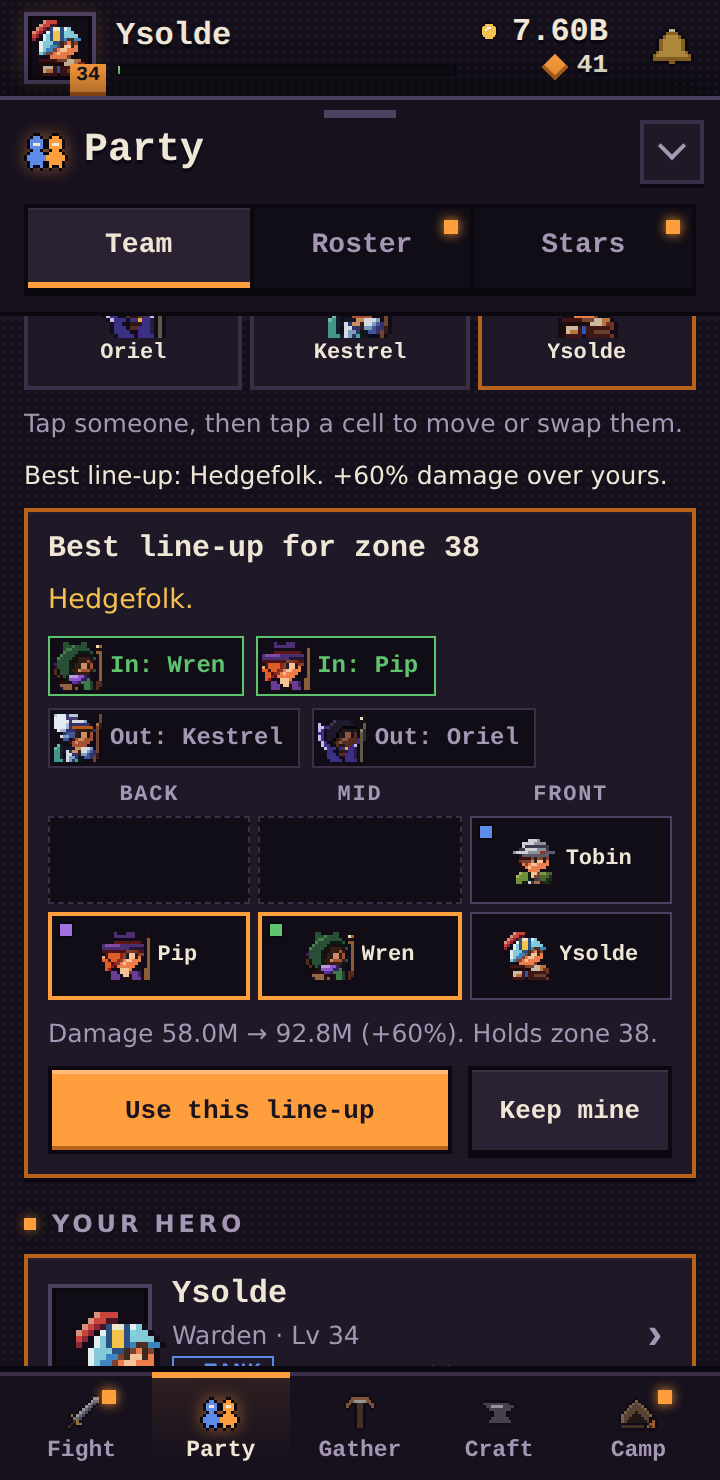
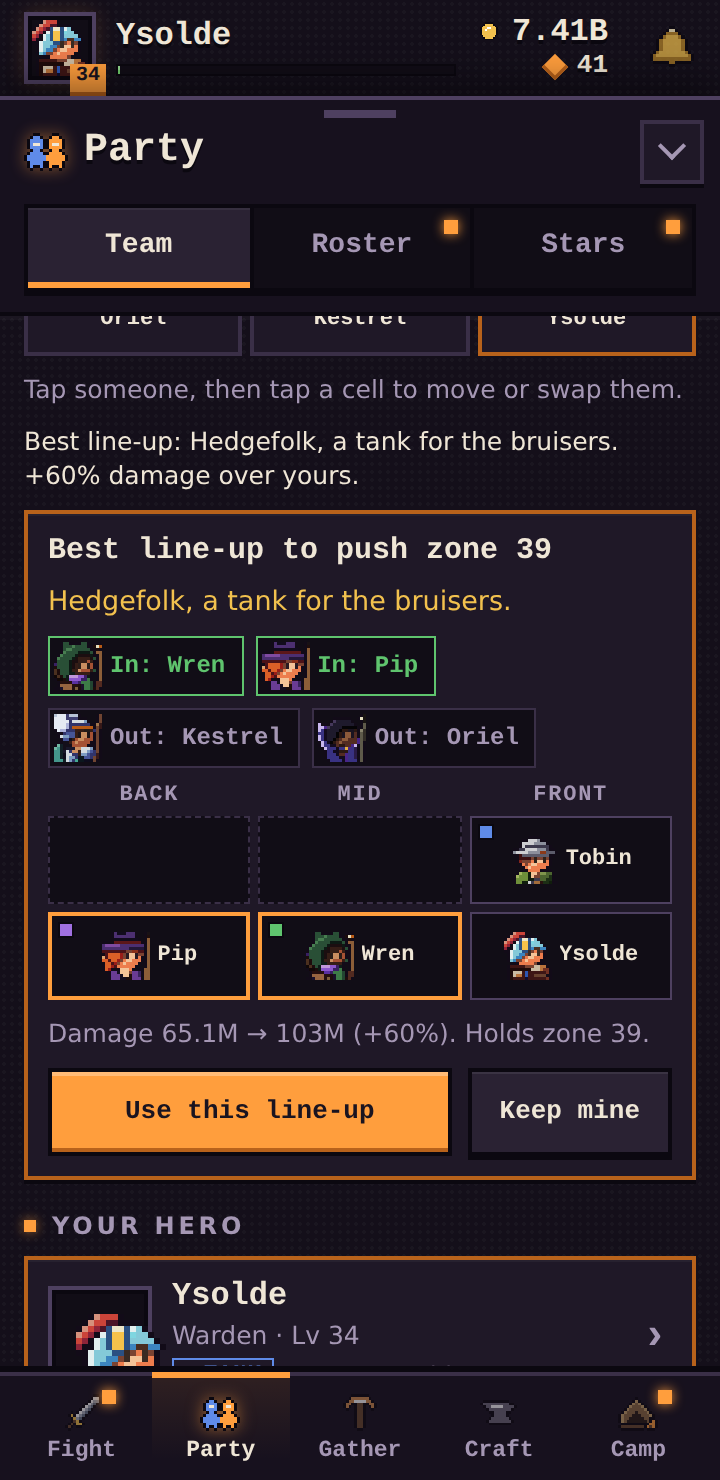
AF: plan past the best zone, count held zones and the boss; plan off the ui pass
- bestLineup push plans for maxZone + 1 and scores by the highest zone a field holds (the
  estimate's scan), so a field that holds no zone no longer outranks one that nearly does.
- A field with no tank in Front scores 35% less when pushing (the zone boss's heavy hit is not in
  the pack estimate); why line says 'a tank for the boss'. opts.boss: false turns it off.
  Without this, --targets lightkeeper runs stalled at zone 41-48.
- 75-party: background re-plans run in their own task (party-form ui p95 64 -> 9 ms on the
  phone profile); the why line names held zones or the damage gain.

Claude-Session: https://claude.ai/code/session_01Cw7jVdUYNDufF4BfA1VN82

diff --git a/src/js/56d-autofield.js b/src/js/56d-autofield.js
@@ -14,11 +14,12 @@
 //
 // Exposed names:
 //   bestLineup(opts) -> { field, cells, score, why, parts } | null (no roster yet)
-//     opts.zone    zone to plan for (default: your best zone for 'push', the current zone for 'farm')
+//     opts.zone    zone to plan for (default: the next zone past your best for 'push', the current zone for 'farm')
 //     opts.goal    'push' (default: hold the zone, most damage) | 'farm' (most gold per second)
 //     opts.filter  fn(id) -> bool | [ids] | { circle } | { role } (e.g. circle-only for the Oaths)
 //     opts.key     cache key for a function filter (without it a function filter is not cached)
 //     opts.by      'now' (default: today's levels) | 'potential' (levels once caught up; autoField)
+//     opts.boss    push only: count the zone boss (default true: a Front tank for its heavy hit)
 //     parts: { zone, goal, dps, holds, margin, goldPerSec, synergies: [{ id, name, strength }],
 //              reasons: [text], foe, current: { score, dps, holds } | null, gain, same, cand }
 //   lineupScore(field, opts) -> { score, dps, holds, margin, goldPerSec, cells, synergies } (checks, UI)
@@ -38,9 +39,11 @@ let AF_TUNE, bestLineup, lineupScore, applyLineup;
     synBonus: 0.03,       // tie-break per active synergy, x its strength (Common Cause, Bond)
     synMax: 0.08,         // at most +8%: a synergy wins when damage is close, never against a big gap
     behBonus: 0.03,       // foe behaviours the estimate does not model (a Front tank vs divers, a stun vs Wraith healers)
-    failBase: 0.2, failMargin: 0.3,   // a field that does not hold keeps 20-50% of its score (by sustain)
+    bossTank: 0.35,       // push: a field with no tank in Front scores 35% less (the zone boss's heavy hit; the
+                          //   estimate models packs only; without this, lightkeeper runs stalled at a boss)
+    zoneX: 1.55,          // push: a field's score drops by this for each zone short of the target it holds
     farmFail: 0.1,        // farming: a field that does not hold is worth a tenth
-    needGap: 0.05,        // when nothing holds, a role is a reason when the best field without it has 5% less sustain
+    needGap: 0.05,        // (unused since held zones decide the reasons)
     hearthTop: 4,         // Hearth cells are tried for this many of the best fields
     deep: 6,              // fields per make-up (with or without a tank, a support) that get the full estimate
     lvStep: 5             // cache: levels in steps of 5
@@ -98,15 +101,19 @@ let AF_TUNE, bestLineup, lineupScore, applyLineup;
   }
 
   // ---------------- one field ----------------
+  let bossNow = false;   // set per call: push plans also face the zone boss (see T.bossTank)
   // Scores a field with cells: the hold estimate at zone z, today's synergies, the zone's foes.
   function measure(field, cells, z, goal) {
     const p = P(), f0 = p.field, c0 = p.cells;
     p.field = field.slice(); p.cells = cells;
     try {
-      let dps = 0, holds = true, margin = 99, gps = 0;
+      // The estimate scans z down to z - 10 and reports the highest zone this field holds.
+      let dps = 0, holds = true, margin = 99, gps = 0, held = z;
       if (typeof partyHoldEstimate === 'function') {
-        const e = partyHoldEstimate(z, { one: true });
-        dps = e.dps; holds = !!e.holds; margin = e.margin; gps = e.goldPerSec;
+        const e = partyHoldEstimate(z);
+        dps = e.dps; margin = e.margin; gps = e.goldPerSec;
+        held = e.holds && e.zone >= z - 10 ? e.zone : z - 11;
+        holds = held >= z;
       } else {
         dps = heroDps() + field.reduce((a, k) => a + charDps(k), 0); gps = dps;
       }
@@ -116,11 +123,14 @@ let AF_TUNE, bestLineup, lineupScore, applyLineup;
       let behF = 1;
       if (fk === 'bat' && field.some(k => R(k).role === 'tank' && cells[k] && cells[k].col === 2)) behF += T.behBonus;
       if (fk === 'wraith' && field.some(k => STUNS[k])) behF += T.behBonus;
-      const m = Math.max(0, Math.min(1, margin));
+      const frontTank = (roleOf('hero') === 'tank' && heroColOf() === 2) || field.some(k => R(k).role === 'tank' && cells[k] && cells[k].col === 2);
+      if (bossNow && !frontTank) behF *= 1 - T.bossTank;
+      // push: damage, x zoneX for each zone short of z the field holds (a zone is about 1.55x the foe
+      // HP), so a field that holds more zones wins unless it is far weaker. farm: gold per second there.
       const base = goal === 'farm' ? gps : dps;
-      const holdF = holds ? 1 : goal === 'farm' ? T.farmFail : T.failBase + T.failMargin * m;
+      const holdF = goal === 'farm' ? (holds ? 1 : T.farmFail) : Math.pow(T.zoneX, held - z);
       const score = Number.isFinite(base) ? base * holdF * synF * behF : 0;
-      return { field: field.slice(), cells, score, dps, holds, margin, goldPerSec: gps, synergies: syn };
+      return { field: field.slice(), cells, score, dps, holds, held, margin, goldPerSec: gps, synergies: syn };
     } finally { p.field = f0; p.cells = c0; }
   }
 
@@ -188,11 +198,13 @@ let AF_TUNE, bestLineup, lineupScore, applyLineup;
       const s = lacking(test); if (s == null) return;
       const w = evals.find(e => e.score === s && !e.field.some(test));
       // a reason only when the hold estimate says so: without it the zone does not hold (or holds much worse)
-      if (w && ((!w.holds && best.holds) || (!best.holds && w.margin < best.margin * (1 - T.needGap)))) out.push(text);
+      if (w && (w.held < best.held || (!w.holds && best.holds))) out.push(text);
     };
     need(k => R(k).role === 'tank', 'tank');
     need(k => R(k).role === 'support', 'healer');
     if (out.length) out.splice(0, out.length, `a ${out.join(' and a ')} for the ${foes}`);
+    // a tank the packs do not need, fielded for the boss's heavy hit
+    else if (bossNow && best.field.some(k => R(k).role === 'tank') && roleOf('hero') !== 'tank' && lacking(k => R(k).role === 'tank') != null) out.push('a tank for the boss');
     if (fk === 'bones' || fk === 'golem') need(k => R(k).role === 'caster', 'a caster for the armour');
     if (fk === 'wraith') need(k => !!STUNS[k], 'a stun for the healers');
     return out.slice(0, 2);
@@ -210,15 +222,16 @@ let AF_TUNE, bestLineup, lineupScore, applyLineup;
   let cache = new Map(), cacheFor = null;
   function sigOf(o, z, goal, by) {
     const step = Math.max(1, T.lvStep);
-    let s = [heroCls(), z, goal, by, o.key || (typeof o.filter === 'function' ? '' : JSON.stringify(o.filter || null)), S.L, Math.floor((S.blade || 0) / 10)].join('|') + '|';
+    let s = [heroCls(), z, goal, by, bossNow, o.key || (typeof o.filter === 'function' ? '' : JSON.stringify(o.filter || null)), S.L, Math.floor((S.blade || 0) / 10)].join('|') + '|';
     for (const k of rosterList()) { const r = charRec(k); s += k + Math.floor(r.lv / step) + '.' + r.rank + '.' + r.wpn + '.' + r.trk + (onExped(k) ? 'x' : '') + ','; }
     return s;
   }
   bestLineup = opts => {
     if (!(typeof rosterLive === 'function' && rosterLive())) return null;
     const o = opts || {}, goal = o.goal === 'farm' ? 'farm' : 'push', by = o.by === 'potential' ? 'potential' : 'now';
-    const z = Math.max(1, Math.floor(o.zone || (goal === 'farm' ? S.zone : S.maxZone) || 1));
+    const z = Math.max(1, Math.floor(o.zone || (goal === 'farm' ? S.zone : (S.maxZone || 0) + 1) || 1));
     const cacheable = typeof o.filter !== 'function' || !!o.key;
+    bossNow = goal === 'push' && o.boss !== false;
     if (cacheFor !== S) { cache = new Map(); cacheFor = S; }
     const sig = cacheable ? sigOf(o, z, goal, by) : null;
     let res = sig ? cache.get(sig) : null;
@@ -243,18 +256,19 @@ let AF_TUNE, bestLineup, lineupScore, applyLineup;
     const f0 = (P().field || []).filter(k => isRecruited(k)).slice(0, 3), c0 = P().cells || {};
     const same = sameSet(f0, b.field) && sameCells(c0, b.cells, ['hero'].concat(b.field));
     let current = null;
-    if (same) current = { score: b.score, dps: b.dps, holds: b.holds };
-    else try { const m = withLevels(by, f0, () => measure(f0, c0, z, goal)); current = { score: m.score, dps: m.dps, holds: m.holds }; } catch (e) {}
+    if (same) current = { score: b.score, dps: b.dps, holds: b.holds, held: b.held };
+    else try { const m = withLevels(by, f0, () => measure(f0, c0, z, goal)); current = { score: m.score, dps: m.dps, holds: m.holds, held: m.held }; } catch (e) {}
     return {
       field: b.field.slice(), cells: JSON.parse(JSON.stringify(b.cells)), score: b.score, why: whyLine(b, res.rs, goal),
-      parts: { zone: z, goal, by, dps: b.dps, holds: b.holds, margin: b.margin, goldPerSec: b.goldPerSec, synergies: b.synergies.slice(), reasons: res.rs.slice(),
+      parts: { zone: z, goal, by, dps: b.dps, holds: b.holds, held: b.held, margin: b.margin, goldPerSec: b.goldPerSec, synergies: b.synergies.slice(), reasons: res.rs.slice(),
         foe: foeKey(z), current, gain: current && current.score > 0 ? b.score / current.score : null, same, cand: res.cand }
     };
   };
   lineupScore = (field, opts) => {
     const o = opts || {}, goal = o.goal === 'farm' ? 'farm' : 'push';
-    const z = Math.max(1, Math.floor(o.zone || (goal === 'farm' ? S.zone : S.maxZone) || 1));
+    const z = Math.max(1, Math.floor(o.zone || (goal === 'farm' ? S.zone : (S.maxZone || 0) + 1) || 1));
     const f = (field || []).filter(k => isRecruited(k)).slice(0, 3);
+    bossNow = goal === 'push' && o.boss !== false;
     return withLevels(o.by, f, () => measure(f, o.cells || placeAll(f), z, goal));
   };
   applyLineup = res => {

diff --git a/src/js/75-party.js b/src/js/75-party.js
@@ -107,11 +107,20 @@
   // hold) and applies it only on "Use this line-up". Planned at most every few seconds, cached by 56d.
   let luRes = null, luT = -1e9, luOpen = false, luSig = '', luField = null, luCells = null;
   const luOk = () => typeof bestLineup === 'function' && live() && rosterList().length >= 1;
-  const luPlan = force => {
-    const t = performance.now();
-    if (!force && luRes && t - luT < 5000) return luRes;
-    luT = t;
+  // Background refreshes run in their own task (never inside a ui() pass, so opening the tab stays
+  // smooth); a tap on the button or a manual move plans at once.
+  let luQueued = false;
+  const luRun = () => {
+    luT = performance.now();
     try { luRes = bestLineup({ goal: 'push' }); } catch (e) { luRes = null; console.error('[lanternfall] bestLineup', e); }
+    return luRes;
+  };
+  const luPlan = force => {
+    if (force) return luRun();
+    if ((!luRes || performance.now() - luT >= 5000) && !luQueued) {
+      luQueued = true;
+      setTimeout(() => { luQueued = false; if (formRefs && formRefs.why.isConnected) { luRun(); luSig = ''; try { updateWhy(); } catch (e) {} } }, 60);
+    }
     return luRes;
   };
   const pctTxt = g => { const p = Math.round((g - 1) * 100); return p > 0 ? `+${p}%` : `${p}%`; };
@@ -119,13 +128,14 @@
     const r = formRefs; if (!r) return;
     putHidden(r.best, !luOk());
     if (!luOk()) { r.why.hidden = true; r.prev.hidden = true; return; }
-    const moved = luField !== P().field || luCells !== P().cells;   // a manual move: plan again now
+    const moved = !!luRes && (luField !== P().field || luCells !== P().cells);   // a manual move: plan again now (the pick is cached, so this is cheap)
     luField = P().field; luCells = P().cells;
     const b = luPlan(moved);
     if (!b) { r.why.hidden = true; return; }
     // The gain in the words of the preview: damage when yours holds too, else the hold itself.
     const g = b.parts.gain, cur = b.parts.current;
-    const more = !g || g <= 1.005 || !cur ? '' : cur.holds || !b.parts.holds ? ` ${pctTxt(b.parts.dps / Math.max(1e-9, cur.dps))} damage over yours.` : ` Yours cannot hold zone ${b.parts.zone}.`;
+    const dz = cur ? (b.parts.held || 0) - (cur.held || 0) : 0;
+    const more = !g || g <= 1.005 || !cur ? '' : dz >= 10 ? ' Yours cannot hold these zones.' : dz > 0 ? ` It holds ${dz} more zone${dz === 1 ? '' : 's'} than yours.` : b.parts.dps > cur.dps * 1.005 ? ` ${pctTxt(b.parts.dps / Math.max(1e-9, cur.dps))} damage over yours.` : '';
     const t = b.parts.same ? `Best line-up: ${b.why}. You have it.` : `Best line-up: ${b.why}.` + more;
     setT(r.why, t); r.why.hidden = false;
     putToggle(r.best, 'go', !b.parts.same && !!g && g > 1.02);
@@ -145,7 +155,7 @@
     const now = field(), sig = JSON.stringify([b.field, b.cells, b.why, now, cellsNow(), Math.round((b.parts.gain || 0) * 100)]);
     if (sig === luSig) return; luSig = sig;
     box.textContent = ''; box.hidden = false;
-    box.append(el('b', 'lu-t', `Best line-up for zone ${b.parts.zone}`), el('p', 'lu-line', b.why + '.'));
+    box.append(el('b', 'lu-t', `Best line-up to push zone ${b.parts.zone}`), el('p', 'lu-line', b.why + '.'));
     const ins = b.field.filter(k => !now.includes(k)), outs = now.filter(k => !b.field.includes(k));
     const ch = el('div', 'lu-ch');
     if (b.parts.same) ch.append(el('span', 'lu-same', 'Your line-up is already the best one.'));
@@ -168,7 +178,7 @@
     const p = b.parts, cur = p.current;
     const stats = el('p', 'note lu-stats');
     stats.textContent = (cur && !p.same ? `Damage ${fmt(cur.dps)} → ${fmt(p.dps)}` + (p.gain ? ` (${pctTxt(p.dps / Math.max(1e-9, cur.dps))})` : '') + '. ' : '') +
-      (p.holds ? `Holds zone ${p.zone}.` : `Cannot hold zone ${p.zone} yet. This is the toughest three.`);
+      (p.holds ? `Holds zone ${p.zone}.` : p.held >= 1 ? `Holds zone ${p.held}, not ${p.zone} yet.` : `Cannot hold zone ${p.zone} yet.`);
     box.append(stats);
     const row = el('div', 'lu-row');
     const use = btn('mini go lu-use', 'Use this line-up', () => { if (live() && typeof applyLineup === 'function') { applyLineup(b); luOpen = false; box.hidden = true; putAttr(r.best, 'aria-expanded', 'false'); luPlan(true); formSig = ''; saveUi(); } });
